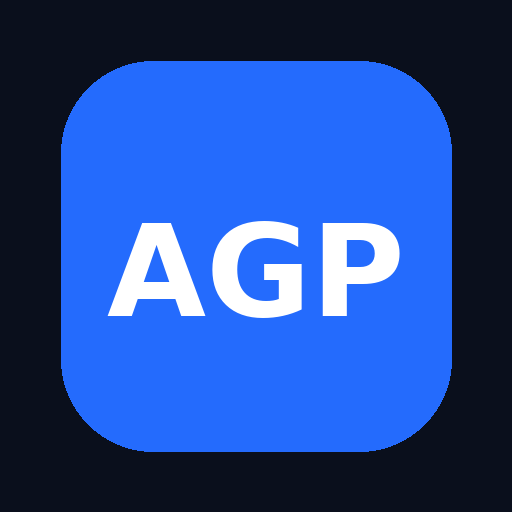
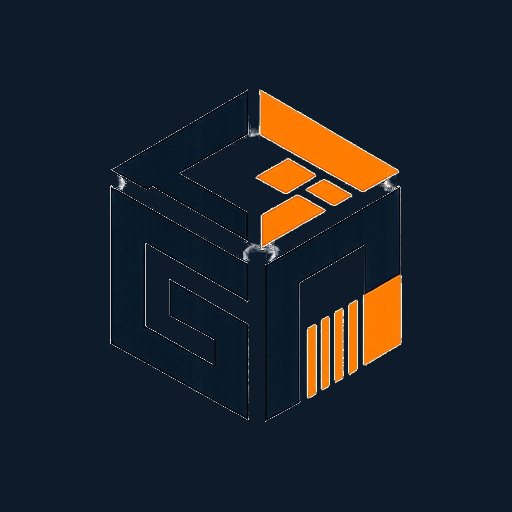
Add files via upload

diff --git a/brand-v3.css b/brand-v3.css
@@ -1,0 +1,72 @@
+
+:root{
+  --primary:#0D1B2A;
+  --primary-2:#153A5C;
+  --accent:#FF8A00;
+  --accent-2:#FFB45C;
+  --ink:#0D1B2A;
+  --muted:#64748B;
+  --surface:#FFFFFF;
+  --surface-2:#F4F6F8;
+  --line:#E2E7EC;
+  --success:#20A36A;
+  --whatsapp:#25D366;
+  --shadow:0 24px 70px rgba(13,27,42,.13);
+}
+body{
+  color:var(--ink);
+  background:#fff;
+  font-family:Inter,Manrope,ui-sans-serif,system-ui,-apple-system,BlinkMacSystemFont,"Segoe UI",sans-serif;
+}
+.site-header{background:rgba(255,255,255,.94);border-bottom:1px solid rgba(13,27,42,.08)}
+.brand-logo,.footer-logo{object-fit:contain;filter:none}
+.brand-logo{width:230px;height:58px}
+.nav>a:not(.btn){color:#384A5D}
+.nav>a:hover{color:var(--accent)}
+.btn-primary{
+  background:linear-gradient(135deg,#FF980F,#FF7600);
+  box-shadow:0 14px 32px rgba(255,138,0,.27);
+}
+.btn-primary:hover{box-shadow:0 18px 38px rgba(255,138,0,.34)}
+.btn-secondary{border-color:rgba(255,255,255,.30)}
+.hero{
+  background:
+    radial-gradient(circle at 82% 18%,rgba(255,138,0,.21),transparent 28%),
+    radial-gradient(circle at 10% 88%,rgba(21,58,92,.48),transparent 35%),
+    linear-gradient(135deg,#08131F,#0D1B2A 55%,#153A5C);
+}
+.hero-grid{opacity:.07;background-size:52px 52px}
+.eyebrow{color:#FFB45C}
+.hero h1{max-width:820px;font-weight:860}
+.hero-copy>p{color:#D8E0E8}
+.hero-card{border:1px solid rgba(255,138,0,.20);box-shadow:0 35px 85px rgba(0,0,0,.32)}
+.status-dot{background:var(--accent);box-shadow:0 0 0 5px rgba(255,138,0,.13)}
+.hero-card-footer a{color:#E97500}
+.eyebrow.dark{color:#D96F00}
+.service-card.featured{border-color:rgba(255,138,0,.65)}
+.icon-box{background:#FFF3E5;color:#E97500}
+.tag{background:#FFF0DC;color:#A84F00}
+.process{background:#F4F6F8}
+.step>span{background:var(--primary)}
+.diagnosis-section{background:linear-gradient(155deg,#08131F,#153A5C)}
+.diagnosis-progress>span.active{background:var(--accent)}
+.diagnosis-options label:has(input:checked){background:#FFF7ED;border-color:#FFB15A}
+.diagnosis-options input{accent-color:var(--accent)}
+.benefit-kicker{color:#D96F00}
+.diagnosis-benefits{background:linear-gradient(160deg,#F8FAFC,#FFF5E8)}
+.neighborhood-note{background:#FFF5E8;border-color:#FFD29A}
+.contact-box{background:linear-gradient(135deg,#FFF5E8,#F4F7FA)}
+.floating-whatsapp{box-shadow:0 16px 35px rgba(37,211,102,.35)}
+footer{background:#FAFBFC}
+@media(max-width:900px){
+  .brand-logo{width:185px!important;height:50px!important}
+  .agp-mobile-overlay{background:linear-gradient(160deg,#FBFCFD,#FFF6EA)!important}
+  .agp-mobile-overlay__eyebrow{color:#D96F00!important}
+  .agp-mobile-overlay__links a b{color:#FF8A00!important}
+  .agp-mobile-overlay__portal{background:#0D1B2A!important}
+  .agp-mobile-overlay__portal span{color:#FFB45C!important}
+}
+@media(max-width:640px){
+  .hero h1{font-size:clamp(40px,12.5vw,56px)}
+  .hero{padding-top:54px}
+}

diff --git a/brand-admin-v3.css b/brand-admin-v3.css
@@ -1,0 +1,33 @@
+
+:root{
+  --navy:#0D1B2A!important;
+  --navy2:#153A5C!important;
+  --teal:#FF8A00!important;
+  --teal2:#FFB45C!important;
+  --surface:#FFFFFF!important;
+  --soft:#F4F6F8!important;
+  --line:#E2E7EC!important;
+  --ink:#0D1B2A!important;
+  --muted:#64748B!important;
+}
+body{background:#F3F5F7!important;color:#0D1B2A!important}
+.sidebar{background:linear-gradient(180deg,#08131F,#0D1B2A 58%,#153A5C)!important}
+.sidebar:before{content:"";position:absolute;inset:0;background:linear-gradient(145deg,transparent 68%,rgba(255,138,0,.13));pointer-events:none}
+.sidebar .brand img{width:190px!important;height:76px!important;object-fit:contain!important;filter:brightness(0) invert(1)}
+.nav-item.active,.nav-item:hover{background:rgba(255,138,0,.16)!important;border-color:rgba(255,138,0,.28)!important;color:#fff!important}
+.nav-item.active .nav-icon{color:#FF9D2E!important}
+.primary-btn,.btn-primary{background:linear-gradient(135deg,#FF980F,#FF7600)!important;color:#fff!important;box-shadow:0 12px 28px rgba(255,138,0,.22)!important}
+.kpi-card,.panel,.table-card,.form-card{border-color:#E2E7EC!important;box-shadow:0 10px 35px rgba(13,27,42,.06)!important}
+.kpi-card:before{background:#FF8A00!important}
+.badge-success{background:#E8F7EF!important;color:#137A4B!important}
+.badge-warning{background:#FFF1DE!important;color:#A95300!important}
+.badge-info{background:#EAF1F7!important;color:#153A5C!important}
+input:focus,select:focus,textarea:focus{border-color:#FF8A00!important;box-shadow:0 0 0 4px rgba(255,138,0,.12)!important}
+.scenario-card.active{border-color:#FF8A00!important;background:rgba(255,138,0,.15)!important;box-shadow:0 0 0 2px rgba(255,138,0,.08)!important}
+.scenario-card[data-price-strategy="neighborhood"]{border-color:rgba(255,138,0,.4)!important;background:rgba(255,138,0,.08)!important}
+.plan-status.is-warning{background:rgba(255,138,0,.14)!important;border-color:rgba(255,138,0,.32)!important}
+.pdf-template-card:hover,.pdf-template-card.recommended{border-color:#FF8A00!important}
+.pdf-template-tag{background:#FFF0DC!important;color:#A84F00!important}
+@media(max-width:900px){
+  .sidebar .brand img{filter:none!important;background:#fff!important;border-radius:14px!important;padding:5px!important}
+}

diff --git a/index.html b/index.html
@@ -3,10 +3,10 @@
 <head>
   <meta charset="UTF-8">
   <meta name="viewport" content="width=device-width, initial-scale=1, viewport-fit=cover">
-  <meta name="theme-color" content="#0B1F33">
+  <meta name="theme-color" content="#0D1B2A">
   <meta name="description" content="AGP Control Integral: inventarios físicos, control de activos y auditoría operativa en Lima y Perú.">
   <title>AGP Control Integral | Inventarios y control operativo</title>
-  <link rel="icon" href="logo-agp.svg" type="image/svg+xml">
+  <link rel="icon" href="favicon.png" type="image/png">
   <link rel="stylesheet" href="styles.css?v=2.0.2">
 
 
@@ -171,12 +171,14 @@
     }
   </style>
 
+  <link rel="apple-touch-icon" href="apple-touch-icon.png">
+  <link rel="stylesheet" href="brand-v3.css?v=3.0">
 </head>
 <body>
   <header class="site-header" id="inicio">
     <div class="container nav-wrap">
       <a class="brand" href="#inicio" aria-label="AGP Control Integral">
-        <img src="logo-agp.svg" alt="Logo AGP Control Integral" class="brand-logo">
+        <img src="agp-logo-main.png" alt="Logo AGP Control Integral" class="brand-logo">
       </a>
 
       <button type="button" class="menu-toggle" id="menuToggle" aria-label="Abrir menú" aria-expanded="false" aria-controls="agpMobileOverlay">
@@ -194,7 +196,7 @@
 
   <div id="agpMobileOverlay" class="agp-mobile-overlay" hidden aria-hidden="true">
     <div class="agp-mobile-overlay__top">
-      <img src="logo-agp.svg" alt="AGP Control Integral">
+      <img src="agp-logo-main.png" alt="AGP Control Integral">
       <button type="button" id="agpMobileClose" aria-label="Cerrar menú">×</button>
     </div>
 
@@ -222,7 +224,7 @@
       <div class="container hero-layout">
         <div class="hero-copy">
           <span class="eyebrow">Inventarios físicos · Activos · Auditoría operativa</span>
-          <h1>Información confiable para tomar mejores decisiones.</h1>
+          <h1>Inventarios precisos. Decisiones más inteligentes.</h1>
           <p>
             Ejecutamos inventarios organizados, apoyados en tecnología y con reportes claros.
             Desde una sede hasta operaciones multisede en Lima y todo el Perú.
@@ -462,7 +464,7 @@
         </div>
         <div class="contact-actions">
           <a href="#" id="contactWhatsapp" class="btn btn-primary">Contactar por WhatsApp</a>
-          <a href="mailto:[email redacted]" class="btn btn-secondary light-bg">[email redacted]</a>
+          <a href="mailto:[email redacted]" class="btn btn-secondary light-bg">[email redacted]</a>
         </div>
       </div>
     </section>
@@ -477,13 +479,13 @@
 
   <footer>
     <div class="container footer-layout">
-      <img src="logo-agp.svg" alt="AGP Control Integral" class="footer-logo">
+      <img src="agp-logo-main.png" alt="AGP Control Integral" class="footer-logo">
       <p>Inventarios físicos, activos y control operativo.</p>
       <div class="footer-access">
         <a href="login.html">Portal AGP</a>
         <small>Acceso para clientes y colaboradores</small>
       </div>
-      <span>© <span id="year"></span> AGP Control Integral · Versión 3.4 Mobile Firebase</span>
+      <span>© <span id="year"></span> AGP Control Integral · AGP Platform 3.0 · Sprint 1</span>
     </div>
   </footer>
 

diff --git a/brand-login-v3.css b/brand-login-v3.css
@@ -1,0 +1,12 @@
+
+:root{--navy:#0D1B2A;--blue:#153A5C;--orange:#FF8A00;--line:#E2E7EC}
+body{background:
+ radial-gradient(circle at 85% 12%,rgba(255,138,0,.23),transparent 24%),
+ linear-gradient(150deg,#08131F,#0D1B2A 55%,#153A5C)!important}
+.login-card{border:1px solid rgba(255,138,0,.18)!important;box-shadow:0 32px 90px rgba(0,0,0,.34)!important}
+.login-card>img{width:min(100%,330px)!important;height:auto!important;max-height:130px!important;object-fit:contain!important}
+.login-heading span{color:#D96F00!important}
+.login-heading h1{color:#0D1B2A!important}
+.login-card input:focus{border-color:#FF8A00!important;box-shadow:0 0 0 4px rgba(255,138,0,.13)!important}
+.login-card button{background:linear-gradient(135deg,#FF980F,#FF7600)!important;box-shadow:0 15px 32px rgba(255,138,0,.26)!important}
+.back{color:#fff!important}

diff --git a/admin.js b/admin.js
@@ -1,6 +1,6 @@
 (() => {
   'use strict';
-  const VERSION='4.0.0', STORAGE='agp-erp-v3-data', SETTINGS='agp-erp-v3-settings';
+  const VERSION='5.0.0', STORAGE='agp-erp-v3-data', SETTINGS='agp-erp-v3-settings';
   const $=(s,r=document)=>r.querySelector(s), $$=(s,r=document)=>[...r.querySelectorAll(s)];
   const money=n=>new Intl.NumberFormat('es-PE',{style:'currency',currency:'PEN'}).format(Number(n||0));
   const formatDuration=seconds=>{seconds=Math.max(0,Number(seconds||0));const h=Math.floor(seconds/3600),m=Math.round((seconds%3600)/60);if(h===0)return `${Math.max(1,m)} min`;if(m===60)return `${h+1} h`;return m?`${h} h ${m} min`:`${h} h`;};
@@ -289,9 +289,9 @@
     const logo=new URL('logo-agp.svg',location.href).href;
     const corporate=template==='corporate', commercial=template==='commercial';
     const colors=corporate
-      ?['#10233f','#b7923d','#f3f5f8','#0c1b31']
-      :commercial?['#113f4c','#22a897','#effaf8','#0b3039']
-      :['#0b2037','#d9a52f','#f4f7f9','#071a2e'];
+      ?['#0D1B2A','#FF8A00','#F4F6F8','#08131F']
+      :commercial?['#153A5C','#FF8A00','#F5F6F8','#0D1B2A']
+      :['#0D1B2A','#FF8A00','#F4F6F8','#08131F'];
     const safe=(v,f='—')=>esc(v===undefined||v===null||v===''?f:v);
     const num=(v,f=0)=>Number.isFinite(Number(v))?Number(v):f;
     const service=safe(s.name||q.service,'Servicio profesional');

diff --git a/admin.html b/admin.html
@@ -11,18 +11,18 @@
   <link rel="manifest" href="manifest.json" />
   <link rel="apple-touch-icon" href="icon-192.png" />
   <link rel="stylesheet" href="admin.css" />
-</head>
+<link rel="stylesheet" href="brand-admin-v3.css?v=3.0"></head>
 <body>
   <div id="app">
     <aside class="sidebar" id="sidebar">
       <div class="brand">
-        <img src="logo-agp.svg" alt="AGP" style="width:54px;height:54px;object-fit:contain;background:white;border-radius:12px;padding:4px">
+        <img src="agp-logo-main.png" alt="AGP" style="width:54px;height:54px;object-fit:contain;background:white;border-radius:12px;padding:4px">
         <div><strong>AGP ERP</strong><span>Control Integral</span></div>
       </div>
       <nav id="nav"></nav>
       <div class="sidebar-foot">
         <button class="ghost-btn" data-action="backup">Respaldo</button><button class="ghost-btn" id="logoutBtn">Cerrar sesión</button>
-        <div class="version">v2.0 · Firebase</div>
+        <div class="version">v3.0 · Firebase</div>
       </div>
     </aside>
 

diff --git a/app.js b/app.js
@@ -1,5 +1,5 @@
 import { createPublicLead } from "./firebase-service.js";
-const AGP_WHATSAPP = "51999999999"; // Reemplazar por el número real de AGP.
+const AGP_WHATSAPP = "51992898514"; // Reemplazar por el número real de AGP.
 const $ = (selector) => document.querySelector(selector);
 
 function openWhatsapp(message) {

diff --git a/login.html b/login.html
@@ -1,1 +1,1 @@
-<!doctype html><html lang="es"><head><meta charset="utf-8"><meta name="viewport" content="width=device-width,initial-scale=1,viewport-fit=cover"><meta name="theme-color" content="#0B1F33"><title>Acceso | AGP Platform Firebase</title><link rel="icon" href="logo-agp.svg" type="image/svg+xml"><link rel="stylesheet" href="login.css"></head><body><main class="login-page"><a class="back" href="index.html">← Volver al sitio</a><section class="login-card"><img src="logo-agp.svg" alt="AGP Control Integral"><div class="login-heading"><span>Portal privado</span><h1>Ingresar a AGP Platform Firebase</h1><p>Acceso exclusivo para usuarios autorizados.</p></div><form id="loginForm"><label>Correo<input id="email" type="email" autocomplete="username" placeholder="[email redacted]" required></label><label>Contraseña<input id="password" type="password" autocomplete="current-password" placeholder="••••••••" required></label><div class="error" id="loginError"></div><button type="submit">Ingresar de forma segura</button></form><small class="demo-note">Acceso protegido mediante Firebase Authentication.</small></section></main><script type="module" src="auth.js?v=2.0"></script></body></html>
+<!doctype html><html lang="es"><head><meta charset="utf-8"><meta name="viewport" content="width=device-width,initial-scale=1,viewport-fit=cover"><meta name="theme-color" content="#0D1B2A"><title>Acceso | AGP Platform</title><link rel="icon" href="favicon.png" type="image/png"><link rel="stylesheet" href="login.css"><link rel="stylesheet" href="brand-login-v3.css?v=3.0"></head><body><main class="login-page"><a class="back" href="index.html">← Volver al sitio</a><section class="login-card"><img src="agp-logo-main.png" alt="AGP Control Integral"><div class="login-heading"><span>Portal privado</span><h1>Ingresar a AGP Platform</h1><p>Acceso exclusivo para usuarios autorizados.</p></div><form id="loginForm"><label>Correo<input id="email" type="email" autocomplete="username" placeholder="[email redacted]" required></label><label>Contraseña<input id="password" type="password" autocomplete="current-password" placeholder="••••••••" required></label><div class="error" id="loginError"></div><button type="submit">Ingresar de forma segura</button></form><small class="demo-note">Acceso protegido mediante Firebase Authentication.</small></section></main><script type="module" src="auth.js?v=2.0"></script></body></html>

diff --git a/migration.html b/migration.html
@@ -16,7 +16,7 @@
   <main class="login-page">
     <section class="migration-card">
       <a class="back" href="admin.html">← Volver al ERP</a>
-      <img src="logo-agp.svg" alt="AGP" style="width:180px;margin:20px 0">
+      <img src="agp-logo-main.png" alt="AGP" style="width:180px;margin:20px 0">
       <h1>Migrar datos locales a Firebase</h1>
       <p>Utiliza esta herramienta una sola vez si deseas reemplazar la base de Firebase con los registros guardados anteriormente en este navegador.</p>
       <pre id="migrationPreview"></pre>

diff --git a/service-worker.js b/service-worker.js
@@ -1,1 +1,1 @@
-const CACHE='agp-platform-v2.0.5';const ASSETS=['./','./index.html','./styles.css','./app.js','./manifest.json','./icon-192.png','./icon-512.png'];self.addEventListener('install',e=>e.waitUntil(caches.open(CACHE).then(c=>c.addAll(ASSETS)).then(()=>self.skipWaiting())));self.addEventListener('activate',e=>e.waitUntil(caches.keys().then(keys=>Promise.all(keys.filter(k=>k!==CACHE).map(k=>caches.delete(k)))).then(()=>self.clients.claim())));self.addEventListener('fetch',e=>{if(e.request.method!=='GET')return;e.respondWith(fetch(e.request).then(r=>{const copy=r.clone();caches.open(CACHE).then(c=>c.put(e.request,copy));return r}).catch(()=>caches.match(e.request).then(r=>r||caches.match('./index.html'))))});
+const CACHE='agp-platform-v3.0.0';const ASSETS=['./','./index.html','./styles.css','./app.js','./manifest.json','./icon-192.png','./icon-512.png'];self.addEventListener('install',e=>e.waitUntil(caches.open(CACHE).then(c=>c.addAll(ASSETS)).then(()=>self.skipWaiting())));self.addEventListener('activate',e=>e.waitUntil(caches.keys().then(keys=>Promise.all(keys.filter(k=>k!==CACHE).map(k=>caches.delete(k)))).then(()=>self.clients.claim())));self.addEventListener('fetch',e=>{if(e.request.method!=='GET')return;e.respondWith(fetch(e.request).then(r=>{const copy=r.clone();caches.open(CACHE).then(c=>c.put(e.request,copy));return r}).catch(()=>caches.match(e.request).then(r=>r||caches.match('./index.html'))))});

diff --git a/README.md b/README.md
@@ -136,3 +136,18 @@ La nueva navegación:
 - conserva y restaura la posición de scroll;
 - se cierra por botón, enlace, Escape o cambio a escritorio;
 - no duplica el logo dentro del contenido de la página.
+
+
+# Sprint 1 — Rebranding AGP Platform 3.0
+
+- Nuevo logo oficial extraído y optimizado desde el material proporcionado.
+- Logo horizontal, isotipo, favicon, iconos PWA y Apple Touch Icon.
+- Paleta oficial: #0D1B2A, #153A5C, #FF8A00, #64748B y #E6E7EB.
+- Rebranding completo de la landing, menú móvil, formularios y CTA.
+- Rediseño visual del login.
+- Rebranding integral del ERP: sidebar, botones, tarjetas, formularios, estados y cotizador.
+- Actualización de colores en las propuestas PDF.
+- Datos oficiales de contacto:
+  - [email redacted]
+  - [phone redacted]
+- Firebase y las funcionalidades existentes se mantienen.